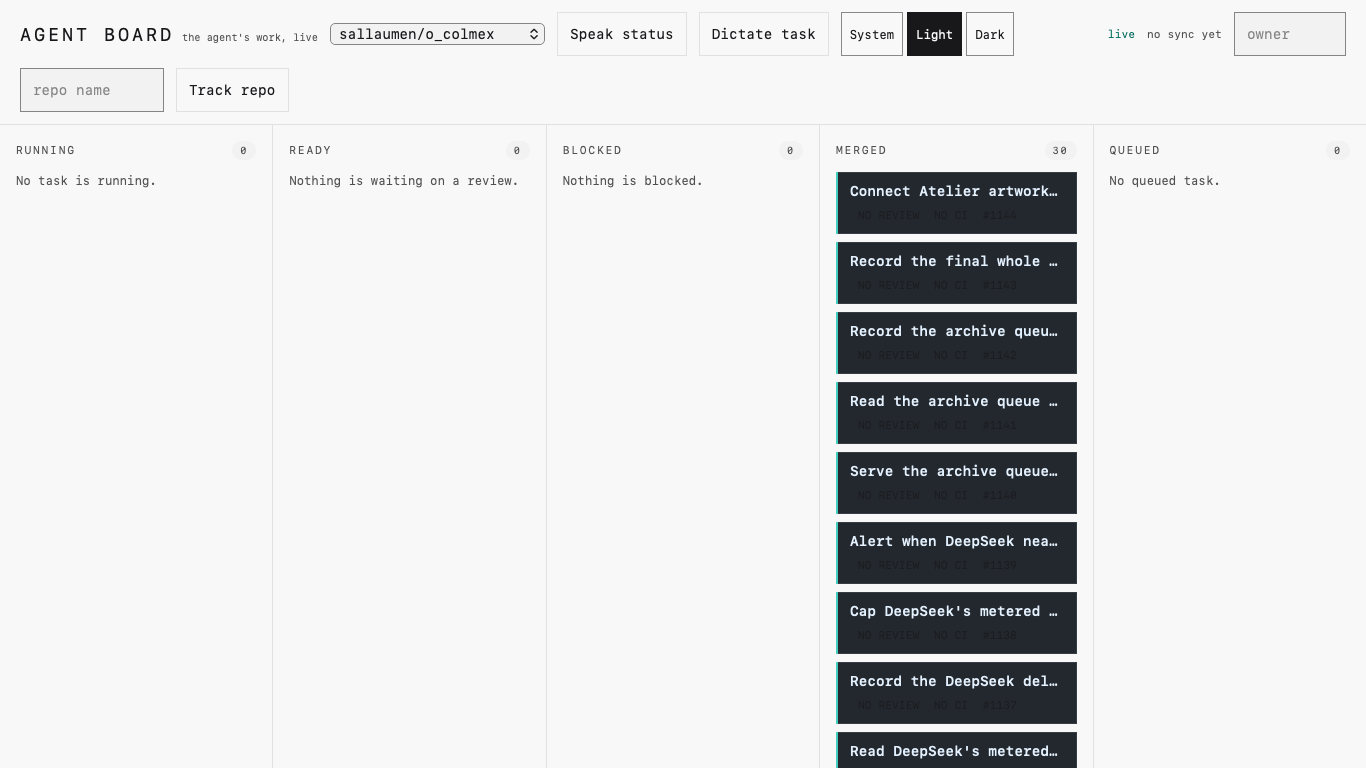
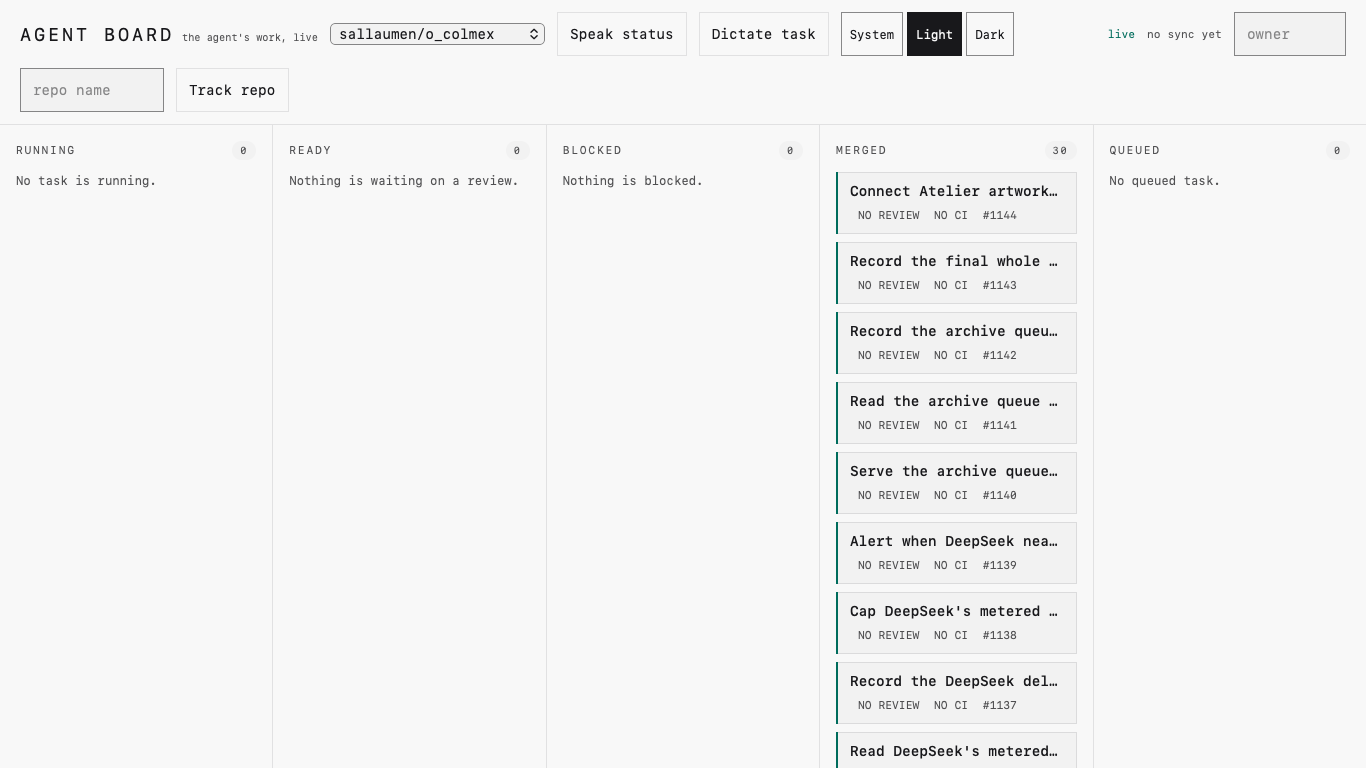
docs: stabilize theme audit captures and link final PR

Changed region(s): [[0.6149, 0.2188, 0.7994, 1.0]]

diff --git a/docs/ui-audit/2026-11-05/01-theme.md b/docs/ui-audit/2026-11-05/01-theme.md
@@ -16,6 +16,7 @@ as cinco colunas e a ênfase em tarefas/bloqueios. Refinar legibilidade, sem red
 | P2 | IA e carregamento | `board_live.ex` usava `text-[#e8a33d]`; `app.js` tinha `#29d` e sombra RGBA. [IA](baseline-mobile-ai.png). | `text-warning` e cor do progresso derivada de `--color-primary`. Cores literais ficam nas definições dos tokens; arte Phoenix não roteada e vendors ficam fora desse escopo. |
 | P2 | Teclado/formulários | [Fixture](baseline-fixture.png): campos dependiam de placeholders, foco inconsistente e ações de 25px. | Nomes explícitos para título/detalhes/mensagem, foco compartilhado e controles com altura mínima 44px. |
 
+Capturas claro/escuro recapturadas no commit `80e3ee9`, com transições concluídas.
 Depois: [claro](theme-after-light.png), [escuro](theme-after-dark.png),
 [fixture](theme-after-fixture.png), [foco de teclado](theme-keyboard-focus.png).
 

diff --git a/docs/ui-audit/2026-11-05/README.md b/docs/ui-audit/2026-11-05/README.md
@@ -9,7 +9,7 @@ Interações com dados reais somente leitura. Auditoria via WebKit headless,
 | #154 | Tema, tokens, contraste e foco | [01-theme](01-theme.md) | 151 testes Elixir + assets + biblioteca |
 | #158 | Densidade, títulos, Activity e responsividade | [02-layout](02-layout.md) | 151 testes Elixir + assets + biblioteca |
 | #161 | Saúde, reconexão e contagens verdadeiras | [03-health](03-health.md) | 154 testes Elixir + assets + biblioteca |
-| Ações e feedback | Sucesso/erro, contexto de conversa, AI e voz | [04-actions](04-actions.md) | 158 testes Elixir + assets + biblioteca |
+| #164 | Sucesso/erro, contexto de conversa, AI e voz | [04-actions](04-actions.md) | 158 testes Elixir + assets + biblioteca |
 
 Todos passaram `scripts/ci-local.sh all`: `mix gate`, `scripts/check_assets.sh`,
 `mix assets.build`, assets.deploy, validador e 20 testes da biblioteca.
